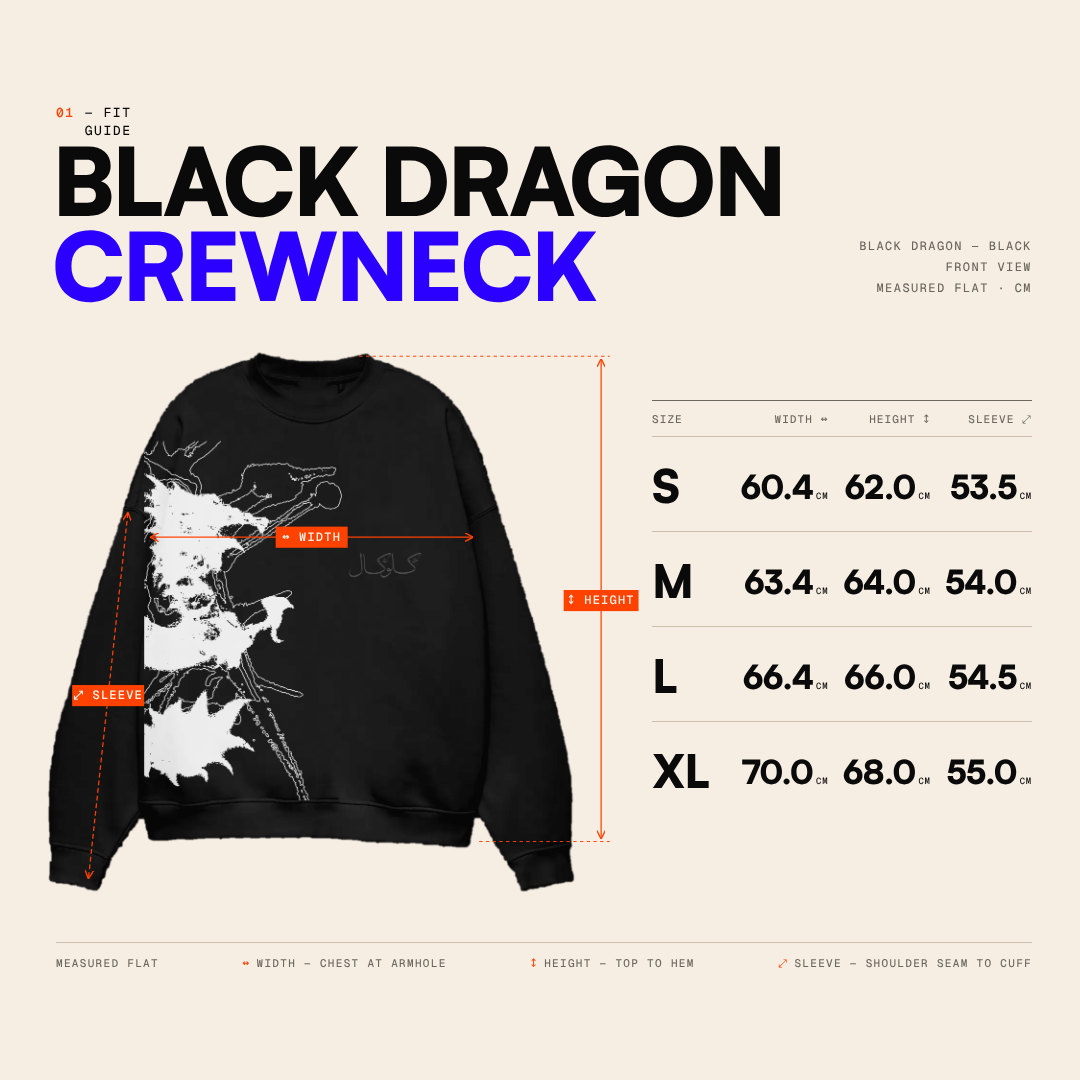
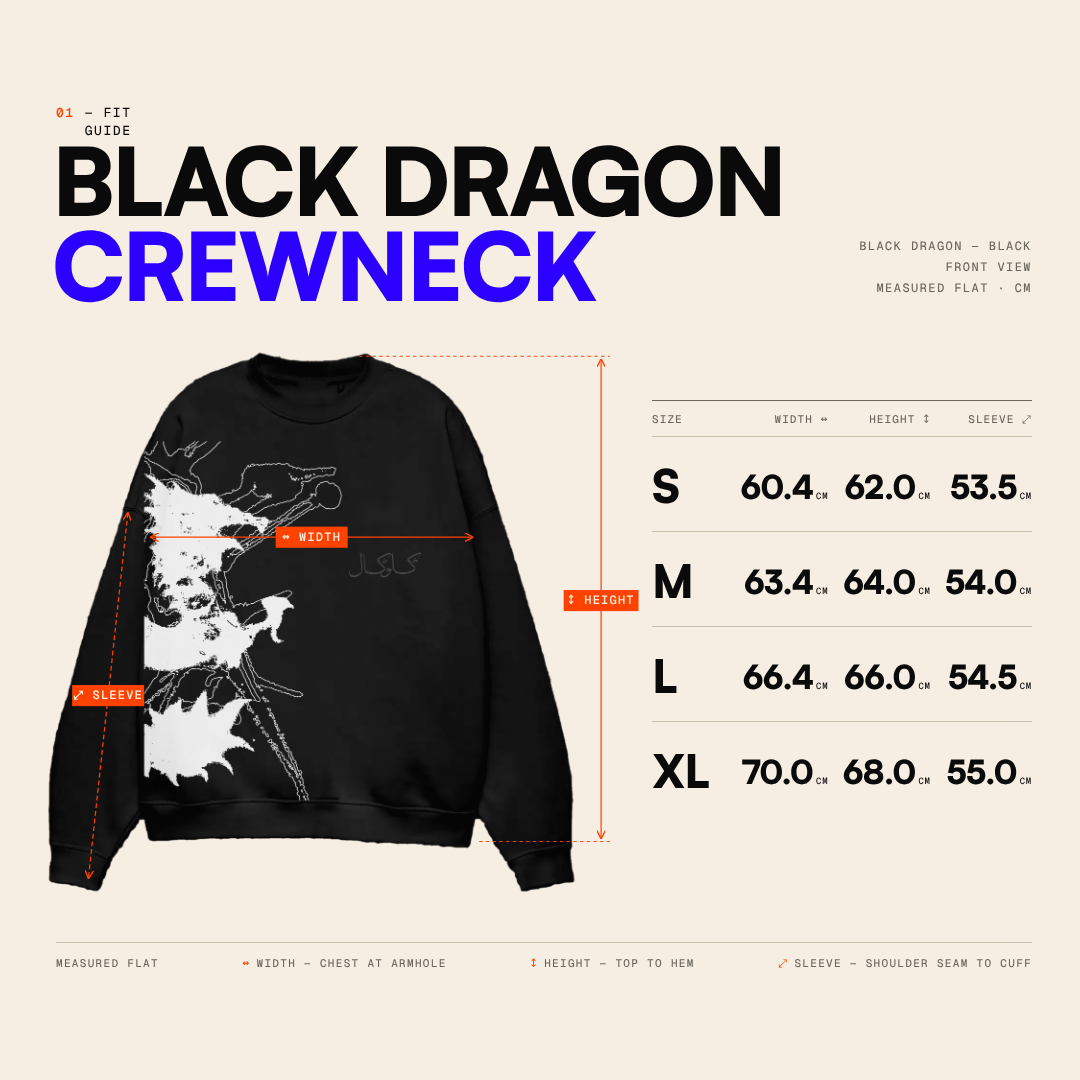
Rebuild size-chart mockup at 2x: artefact cleanup, full-res prints, cleaner edges
Claude-Session: https://claude.ai/code/session_0134z9woteaCD6XRmPMXin1q

diff --git a/clocal-black-dragon-ads/src/sizechart-black-dragon_1x1.html b/clocal-black-dragon-ads/src/sizechart-black-dragon_1x1.html
@@ -35,7 +35,7 @@
         <path d="M0 0 L10 5 L0 10" fill="none" stroke="#FF4200" stroke-width="1.6"/>
       </marker>
     </defs>
-    <image href="sizechart/mockup_front.png" x="88" y="401" width="1104" height="1131"/>
+    <image href="sizechart/mockup_front.png" x="88.5" y="401.5" width="1104" height="1131"/>
     <g stroke="#FF4200" stroke-width="2.6" fill="none">
       <!-- height: guides + vertical -->
       <line x1="740" y1="413" x2="1262" y2="413" stroke-dasharray="7 7" stroke-width="2"/>

diff --git a/clocal-black-dragon-ads/size-chart/make_mockup.py b/clocal-black-dragon-ads/size-chart/make_mockup.py
@@ -12,6 +12,7 @@ import numpy as np
 from PIL import Image
 
 A = 'assets/'
+K = 2                              # work at 2x the reference resolution
 # Placement (reference px, 1280x1920). Tunable from the command line for iteration.
 ART_SCALE = float(sys.argv[1]) if len(sys.argv) > 1 else 1.45   # px per unit of an 800-unit artwork
 ART_X = float(sys.argv[2]) if len(sys.argv) > 2 else -391        # artwork origin
@@ -20,15 +21,18 @@ SEAM_X = 292                       # left side seam: front print stops here
 COLLAR_Y, HEM_Y = 590, 1338        # print area between collar rib and hem rib
 AR_CX, AR_CY, AR_W = 794, 848, 150  # Arabic chest mark centre / width
 
-ref = np.array(Image.open(A + 'ref_crewneck_flat.webp').convert('RGB')).astype(np.float32)
+ref0 = np.array(Image.open(A + 'ref_crewneck_flat.webp').convert('RGB'))
+# Remove WebP block artefacts before upscaling, keeping folds and seams (edge-preserving).
+ref0 = cv2.bilateralFilter(ref0, 7, 10, 5)
+ref = cv2.resize(ref0, None, fx=K, fy=K, interpolation=cv2.INTER_CUBIC).astype(np.float32)
 H, W = ref.shape[:2]
 r, g, b = ref[..., 0], ref[..., 1], ref[..., 2]
 L = 0.299 * r + 0.587 * g + 0.114 * b
 
 # Garment mask: the pink fabric has chroma, the studio background does not; the dark tag is inside.
-chroma = r - b
+chroma = cv2.GaussianBlur(r - b, (0, 0), 1.5)
 mask = ((chroma > 7) | (L < 140)).astype(np.uint8)
-mask = cv2.morphologyEx(mask, cv2.MORPH_CLOSE, np.ones((9, 9), np.uint8))
+mask = cv2.morphologyEx(mask, cv2.MORPH_CLOSE, np.ones((9 * K, 9 * K), np.uint8))
 n, lab, stats, _ = cv2.connectedComponentsWithStats(mask)
 mask = (lab == 1 + np.argmax(stats[1:, cv2.CC_STAT_AREA])).astype(np.uint8)
 ff = mask.copy(); h2 = np.zeros((H + 2, W + 2), np.uint8)
@@ -37,54 +41,59 @@ mask = mask | (1 - ff)                                  # fill interior holes
 
 # Remove the reference brand: chest embroidery (bright, low chroma) and the whole neck tag.
 fix = np.zeros((H, W), np.uint8)
-fix[712:768, 736:836] = 1                               # chest embroidery: whole patch
+fix[712 * K:768 * K, 736 * K:836 * K] = 1                               # chest embroidery: whole patch
 tag = np.zeros((H, W), np.uint8)
-tag[466:510, 606:678] = 1                               # reference brand's woven neck label
+tag[466 * K:510 * K, 606 * K:678 * K] = 1                               # reference brand's woven neck label
 src = ref.clip(0, 255).astype(np.uint8)
-clean = cv2.inpaint(src, ((fix | tag) * 255).astype(np.uint8), 9, cv2.INPAINT_TELEA).astype(np.float32)
+clean = cv2.inpaint(src, ((fix | tag) * 255).astype(np.uint8), 9 * K, cv2.INPAINT_TELEA).astype(np.float32)
 Lc = 0.299 * clean[..., 0] + 0.587 * clean[..., 1] + 0.114 * clean[..., 2]
+Lc = cv2.bilateralFilter(Lc.astype(np.float32), 9, 4, 6)   # smooth fabric, keep seams
 
 # Recolour to black fleece, keeping the reference folds (shade relative to the median fabric tone).
 med = np.median(Lc[mask > 0])
 sd = np.std(Lc[mask > 0])
 shade = np.clip(Lc / med, 0.55, 1.15)
 z = np.clip((Lc - med) / sd, -4, 3)                     # fold contrast from the reference
-fabric = np.clip(27.0 + 8.0 * z, 6, 58)                 # deep black, folds still readable
+fabric = np.clip(27.0 + 9.5 * z, 6, 62)                 # deep black, folds still readable
+rng = np.random.default_rng(7)
+grain = cv2.GaussianBlur(rng.normal(0, 1, (H, W)).astype(np.float32), (0, 0), 0.8) * 2.2
+fabric = fabric + grain                                  # faint fleece grain so it doesn't read as flat fill
 out = np.dstack([fabric * 1.0, fabric * 1.0, fabric * 1.02])
 
 # Front artwork (white), clipped to the front panel: right of the side seam, collar→hem.
 art = Image.open(A + 'print_front.png').convert('RGBA')
-size = int(round(800 * ART_SCALE))
+size = int(round(800 * ART_SCALE * K))
 art = np.array(art.resize((size, size), Image.LANCZOS)).astype(np.float32) / 255.0
 layer = np.zeros((H, W), np.float32)
-x0, y0 = int(round(ART_X)), int(round(ART_Y))
+x0, y0 = int(round(ART_X * K)), int(round(ART_Y * K))
 xs, ys = max(0, x0), max(0, y0)
 xe, ye = min(W, x0 + size), min(H, y0 + size)
 layer[ys:ye, xs:xe] = art[ys - y0:ye - y0, xs - x0:xe - x0, 3]
 clip = np.zeros((H, W), np.float32)
-clip[COLLAR_Y:HEM_Y, SEAM_X:] = 1
+clip[COLLAR_Y * K:HEM_Y * K, SEAM_X * K:] = 1
 clip *= mask
 layer *= clip
-ink = 236.0 * np.clip(shade, 0.82, 1.06)                # print follows the fabric folds
+ink = 236.0 * np.clip(shade, 0.82, 1.06) + grain * 1.5  # print follows the fabric folds and grain
 for c in range(3):
     out[..., c] = out[..., c] * (1 - layer) + ink * layer
 
 # Arabic chest mark (grey, as supplied).
 ar = Image.open(A + 'print_arabic_chest.png').convert('RGBA')
 ar = ar.crop(ar.getbbox())
-arh = int(round(AR_W * ar.height / ar.width))
-ar = np.array(ar.resize((AR_W, arh), Image.LANCZOS)).astype(np.float32) / 255.0
-ax, ay = AR_CX - AR_W // 2, AR_CY - arh // 2
-a = ar[..., 3] * mask[ay:ay + arh, ax:ax + AR_W]
+arw = AR_W * K
+arh = int(round(arw * ar.height / ar.width))
+ar = np.array(ar.resize((arw, arh), Image.LANCZOS)).astype(np.float32) / 255.0
+ax, ay = AR_CX * K - arw // 2, AR_CY * K - arh // 2
+a = ar[..., 3] * mask[ay:ay + arh, ax:ax + arw]
 for c in range(3):
-    region = out[ay:ay + arh, ax:ax + AR_W, c]
-    col = ar[..., c] * 255.0 * np.clip(shade[ay:ay + arh, ax:ax + AR_W], 0.85, 1.05)
-    out[ay:ay + arh, ax:ax + AR_W, c] = region * (1 - a) + col * a
+    region = out[ay:ay + arh, ax:ax + arw, c]
+    col = ar[..., c] * 255.0 * np.clip(shade[ay:ay + arh, ax:ax + arw], 0.85, 1.05)
+    out[ay:ay + arh, ax:ax + arw, c] = region * (1 - a) + col * a
 
 # Soft-edged cut-out.
 core = cv2.erode(mask, np.ones((3, 3), np.uint8))
-alpha = cv2.GaussianBlur(core.astype(np.float32), (5, 5), 0)   # clean, slightly softened edge
+alpha = cv2.GaussianBlur(core.astype(np.float32), (0, 0), 1.2)   # clean, slightly softened edge
 rgba = np.dstack([out.clip(0, 255), alpha * 255]).astype(np.uint8)
 ys_, xs_ = np.where(mask > 0)
-Image.fromarray(rgba).crop((xs_.min() - 4, ys_.min() - 4, xs_.max() + 5, ys_.max() + 5)).save(A + 'mockup_front.png')
+Image.fromarray(rgba).crop((xs_.min() - 8, ys_.min() - 8, xs_.max() + 9, ys_.max() + 9)).save(A + 'mockup_front.png')
 print('mockup bbox', xs_.min(), ys_.min(), xs_.max(), ys_.max())
